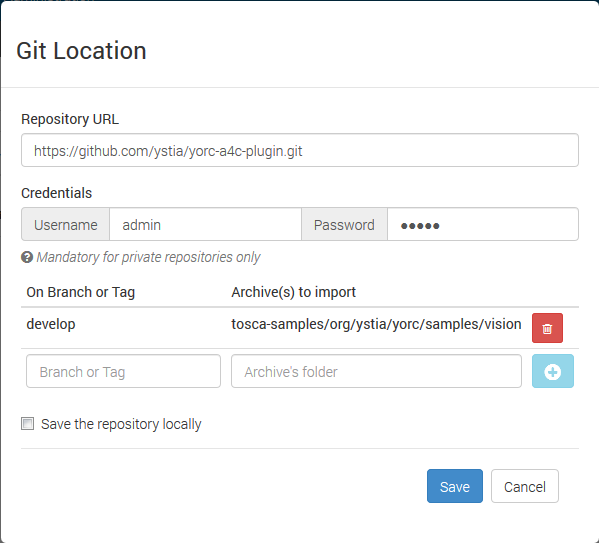
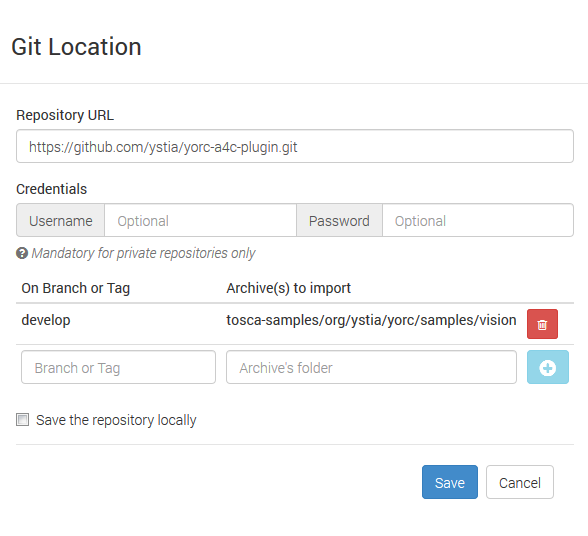
Updated image with git location credentials

diff --git a/_posts/2018-08-14-gcp-sample-app.md b/_posts/2018-08-14-gcp-sample-app.md
@@ -340,7 +340,7 @@ need to provide the following inputs:
   * Branch: `develop`
   * Archive(s) to import : `tosca-samples/org/ystia/yorc/samples/vision`
 
-Then click on `+` to add this branch/archive, to have finally this definition (no need to change credentials inputs):
+Then click on `+` to add this branch/archive, to have finally this definition (no need to define credentials here):
 
 ![Git Location]({{ site.baseurl }}/assets/images/gitLocation.PNG)
 
